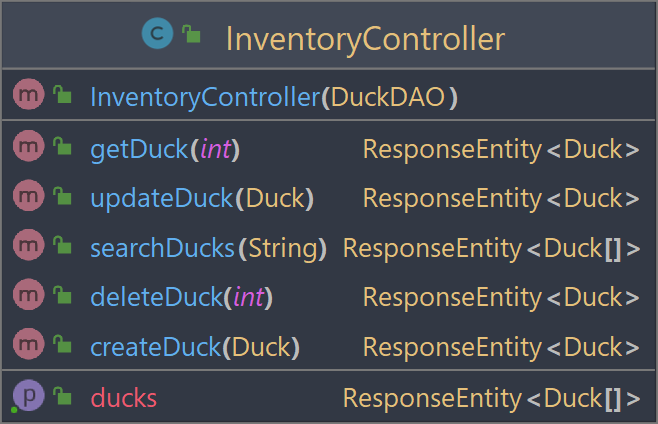
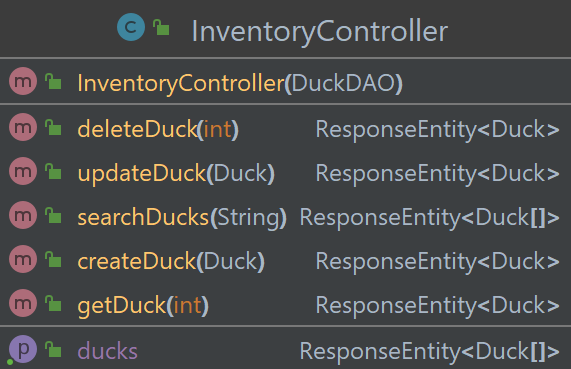
Added UML Diagram to ViewModel Tier

diff --git a/docs/DesignDoc.md b/docs/DesignDoc.md
@@ -232,13 +232,6 @@ using our ProductCreateModifyComponent and indirectly using our ProductService.
 
 ### ViewModel Tier
 
-------
-**View Tier Instructions** (For reference)
-> _**[Sprint 4]** Provide a summary of the View Tier UI of your architecture.
-> Describe the types of components in the tier and describe their
-> responsibilities.  This should be a narrative description, i.e. it has
-> a flow or "story line" that the reader can follow._
-
 The View Tier UI is responsible for presenting the user interface to the end user. It consists 
 of various components that handle different aspects of the UI such as the User Interface Framework, 
 View Manager, View Controller, and the data binding component. The User Interface Framework, which 
@@ -254,27 +247,7 @@ data changes. Overall, our View Tier UI provides a responsive and intuitive user
 the website. By using a combination of these components, we created a UI that is both easy 
 to use and easy to maintain.
 
-> _**[Sprint 4]** You must  provide at least **2 sequence diagrams** as is relevant to a particular aspects
-> of the design that you are describing.  For example, in e-store you might create a
-> sequence diagram of a customer searching for an item and adding to their cart.
-> As these can span multiple tiers, be sure to include an relevant HTTP requests from the client-side to the server-side
-> to help illustrate the end-to-end flow._
-
-> _**[Sprint 4]** To adequately show your system, you will need to present the **class diagrams** where relevant in your design. Some additional tips:_
->* _Class diagrams only apply to the **ViewModel** and **Model** Tier_
->* _A single class diagram of the entire system will not be effective. You may start with one, but will be need to break it down into smaller sections to account for requirements of each of the Tier static models below._
->* _Correct labeling of relationships with proper notation for the relationship type, multiplicities, and navigation information will be important._
->* _Include other details such as attributes and method signatures that you think are needed to support the level of detail in your discussion._
-------
-
-> _**[Sprint 4]** Provide a summary of this tier of your architecture. This
-> section will follow the same instructions that are given for the View
-> Tier above._
-
-> _At appropriate places as part of this narrative provide **one** or more updated and **properly labeled**
-> static models (UML class diagrams) with some details such as critical attributes and methods._
->
-![Replace with your ViewModel Tier class diagram 1, etc.](model-placeholder.png)
+![REST-API Controller UML Diagrams](UML%20Diagrams/controller-uml.png)
 
 ### Model Tier
 
